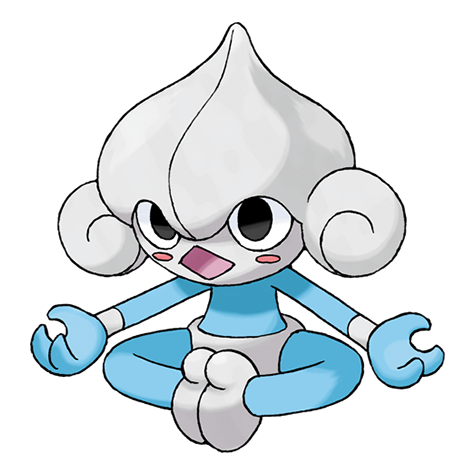
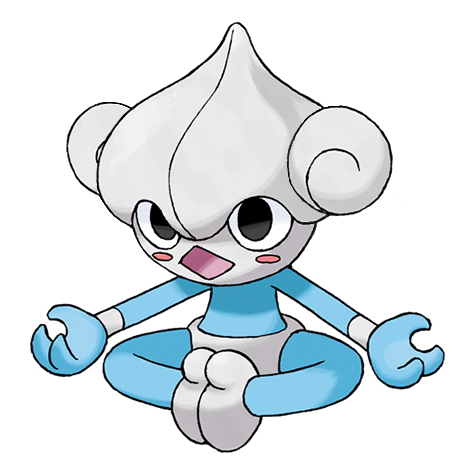
Gender differences  (#27)
* Add gender difference column and female images of gen 1 & 2

* Fixed bidoof's image

* Add 'has_gender_differences' to models.py and __init__.py

* Reverted female images and added female image url to species

* Fixed merge error with pokemon.csv

* added function to get correct image_url

* Added dex entry functionalities

* Added gender evolutions

* Added gender differences art

* Fixed Indeedee and Oinkologne has_gender_differences

* fixed Eevee and Hisuian Sneasel has_gender_differences

* Add gender image suffixes dictionary

---------

Changed region(s): [[0.5895, 0.2063, 0.8547, 0.5895], [0.1179, 0.2358, 0.3242, 0.5895], [0.1768, 0.2063, 0.2653, 0.3242]]

diff --git a/models.py b/models.py
@@ -42,7 +42,9 @@ class StatChange:
 
     @cached_property
     def stat(self):
-        return ("hp", "atk", "defn", "satk", "sdef", "spd", "evasion", "accuracy")[self.stat_id - 1]
+        return ("hp", "atk", "defn", "satk", "sdef", "spd", "evasion", "accuracy")[
+            self.stat_id - 1
+        ]
 
 
 @dataclass
@@ -163,10 +165,18 @@ class Move:
 
             if self.damage_class_id == 2:
                 atk = pokemon.atk * constants.STAT_STAGE_MULTIPLIERS[pokemon.stages.atk]
-                defn = opponent.defn * constants.STAT_STAGE_MULTIPLIERS[opponent.stages.defn]
+                defn = (
+                    opponent.defn
+                    * constants.STAT_STAGE_MULTIPLIERS[opponent.stages.defn]
+                )
             else:
-                atk = pokemon.satk * constants.STAT_STAGE_MULTIPLIERS[pokemon.stages.satk]
-                defn = opponent.sdef * constants.STAT_STAGE_MULTIPLIERS[opponent.stages.sdef]
+                atk = (
+                    pokemon.satk * constants.STAT_STAGE_MULTIPLIERS[pokemon.stages.satk]
+                )
+                defn = (
+                    opponent.sdef
+                    * constants.STAT_STAGE_MULTIPLIERS[opponent.stages.sdef]
+                )
 
             damage = int((2 * pokemon.level / 5 + 2) * self.power * atk / defn / 50 + 2)
 
@@ -216,7 +226,11 @@ class Move:
             # elif ailment == "Silence":
             #     pass
 
-        ailment = self.meta.meta_ailment if random.randrange(100) < self.meta.ailment_chance else None
+        ailment = (
+            self.meta.meta_ailment
+            if random.randrange(100) < self.meta.ailment_chance
+            else None
+        )
 
         typ_mult = 1
         for typ in opponent.species.types:
@@ -325,6 +339,7 @@ class LevelTrigger(EvolutionTrigger):
     move_type_id: int
     time: str
     relative_stats: int
+    gender_id: str
 
     instance: typing.Any = UnregisteredDataManager()
 
@@ -345,6 +360,12 @@ class LevelTrigger(EvolutionTrigger):
         if self.move_type_id is None:
             return None
         return constants.TYPES[self.move_type_id]
+
+    @cached_property
+    def gender(self):
+        if self.gender_id is None:
+            return None
+        return constants.GENDER_TYPES[self.gender_id]
 
     @cached_property
     def text(self):
@@ -536,6 +557,10 @@ class Species:
         return constants.GENDER_RATES[self.gender_rate]
 
     @cached_property
+    def gender_ratios(self):
+        return constants.GENDER_RATES[self.gender_rate]
+
+    @cached_property
     def mega(self):
         if self.mega_id is None:
             return None
@@ -637,7 +662,9 @@ class Species:
             return f"{self.name} transforms from {species} when given a {item.name}."
 
         if self.evolution_from is not None and self.evolution_to is not None:
-            return f"{self.name} {self.evolution_from.text} and {self.evolution_to.text}."
+            return (
+                f"{self.name} {self.evolution_from.text} and {self.evolution_to.text}."
+            )
         elif self.evolution_from is not None:
             return f"{self.name} {self.evolution_from.text}."
         elif self.evolution_to is not None:
@@ -649,10 +676,11 @@ class Species:
         return f"<Species: {self.name}>"
 
     def get_gender_image_url(self, shiny, gender):
+        gender = gender.lower()
         if shiny:
-            return self.image_url if gender in ["♂", "male"] else self.image_url_female
+            return self.shiny_image_url if gender in ["male"] else self.shiny_image_url_female
         else:
-            return self.shiny_image_url if gender in ["♂", "male"] else self.shiny_image_url_female
+            return self.image_url if gender in ["male"] else self.image_url_female
 
 
 @dataclass
@@ -687,7 +715,7 @@ class DataManagerBase:
             10113,
             10114,
             10115,
-            50076
+            50076,
         ]
 
     @cached_property
@@ -713,7 +741,7 @@ class DataManagerBase:
             10175,
             10176,
             10177,
-            50053
+            50053,
         ]
 
     @cached_property
@@ -845,10 +873,16 @@ class DataManagerBase:
         return self.species_by_dex_number_index.get(number, [])
 
     def all_species_by_name(self, name: str) -> Species:
-        return self.species_by_name_index.get(deaccent(name.lower().replace("′", "'")), [])
+        return self.species_by_name_index.get(
+            deaccent(name.lower().replace("′", "'")), []
+        )
 
     def find_all_matches(self, name: str) -> Species:
-        return [y.id for x in self.all_species_by_name(name) for y in self.all_species_by_number(x.id)]
+        return [
+            y.id
+            for x in self.all_species_by_name(name)
+            for y in self.all_species_by_number(x.id)
+        ]
 
     def species_by_number(self, number: int) -> Species:
         try:

diff --git a/__init__.py b/__init__.py
@@ -9,7 +9,9 @@ from . import models
 
 def get_pokemon(instance):
     species = {x["id"]: x for x in get_data_from("pokemon.csv")}
-    evolution = {x["evolved_species_id"]: x for x in reversed(get_data_from("evolution.csv"))}
+    evolution = {
+        x["evolved_species_id"]: x for x in reversed(get_data_from("evolution.csv"))
+    }
 
     def get_evolution_trigger(pid):
         evo = evolution[pid]
@@ -21,6 +23,7 @@ def get_pokemon(instance):
             movetype = evo.get("known_move_type_id", None)
             time = evo.get("time_of_day", None)
             relative_stats = evo.get("relative_physical_stats", None)
+            gender = evo.get("gender_id", None)
 
             if "location_id" in evo:
                 return models.OtherTrigger(instance=instance)
@@ -36,6 +39,7 @@ def get_pokemon(instance):
                 time=time,
                 relative_stats=relative_stats,
                 instance=instance,
+                gender_id=gender,
             )
 
         elif evo["evolution_trigger_id"] == 2:
@@ -68,7 +72,11 @@ def get_pokemon(instance):
 
             for s in str(row["evo.to"]).split():
                 pto = species[int(s)]
-                evo_to.append(models.Evolution.evolve_to(int(s), get_evolution_trigger(pto["id"]), instance=instance))
+                evo_to.append(
+                    models.Evolution.evolve_to(
+                        int(s), get_evolution_trigger(pto["id"]), instance=instance
+                    )
+                )
 
         if evo_to and len(evo_to) == 0:
             evo_to = None
@@ -107,7 +115,9 @@ def get_pokemon(instance):
             # Each user in the credit must be separated by `|`.
             # And gotta make sure that no username ever contains a `|`,
             # but ideally they should all be user ID anyway
-            artist_ids = [int(s) if isnumber(s) else s.strip() for s in str(art_credit).split("|")]
+            artist_ids = [
+                int(s) if isnumber(s) else s.strip() for s in str(art_credit).split("|")
+            ]
             artists = [ARTISTS.get(aid, aid) for aid in artist_ids]
             art_credit = comma_formatted(artists)
 
@@ -151,7 +161,9 @@ def get_pokemon(instance):
     moves = get_data_from("pokemon_moves.csv")
     version_group = defaultdict(int)
     for row in moves:
-        version_group[row["pokemon_id"]] = max(version_group[row["pokemon_id"]], row["version_group_id"])
+        version_group[row["pokemon_id"]] = max(
+            version_group[row["pokemon_id"]], row["version_group_id"]
+        )
 
     for row in moves:
         if (
@@ -214,7 +226,11 @@ def get_effects(instance):
 
 def get_moves(instance):
     data = get_data_from("moves.csv")
-    names = {x["move_id"]: x["name"] for x in get_data_from("move_names.csv") if x["local_language_id"] == 9}
+    names = {
+        x["move_id"]: x["name"]
+        for x in get_data_from("move_names.csv")
+        if x["local_language_id"] == 9
+    }
 
     meta = {x["move_id"]: x for x in get_data_from("move_meta.csv")}
     meta_stats = defaultdict(list)

diff --git a/constants.py b/constants.py
@@ -161,3 +161,17 @@ ARTISTS = {
     470615071035359262: "@ellewoods.",
     984530916565188648: "ISO#4100"
 }
+
+GENDER_RATES = {
+    0: [100, 0],
+    1: [87.5, 12.5],
+    2: [75, 25],
+    4: [50, 50],
+    6: [25, 75],
+    7: [12.5, 87.5],
+    8: [0, 100],
+}
+
+GENDER_TYPES = {1: "Female", 2: "Male"}
+
+GENDER_IMAGE_SUFFIXES = {"female": "F"}  # TODO: Use gender ID later when refactoring poketwo genders code
